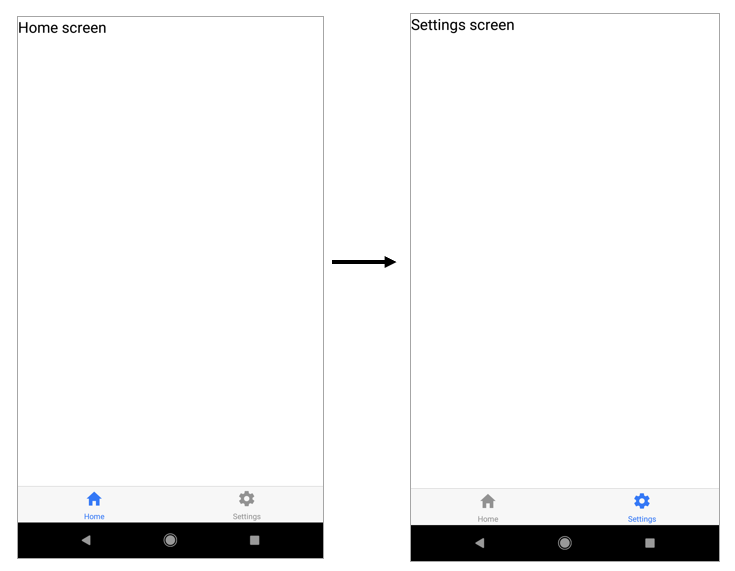
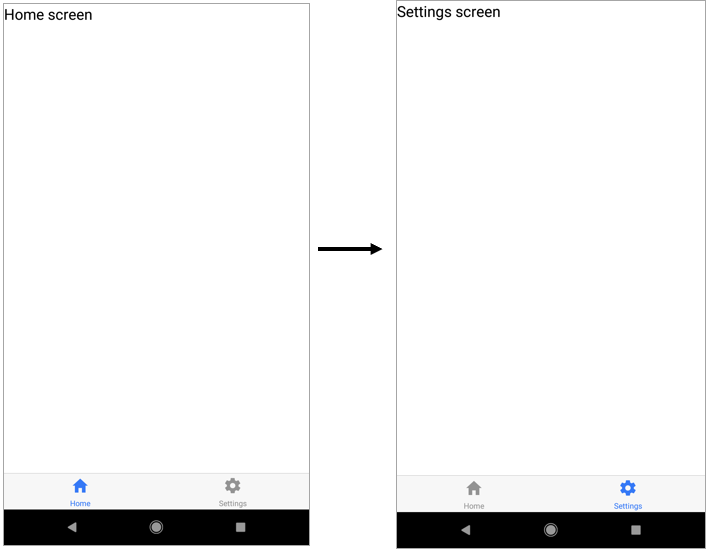
Re-writing navigation

Changed region(s): [[0.0, 0.0, 0.5601, 1.0], [0.5601, 0.0, 1.0, 1.0], [0.5601, 0.8345, 0.5912, 0.8655]]

diff --git a/docs/Navigation/reactnavigation.md b/docs/Navigation/reactnavigation.md
@@ -2,38 +2,27 @@
 title: "React Navigation"
 sidebar_position: 1
 ---
-- React Navigation provides navigation between different screens
-- The following navigators are available:
+React Navigation (https://reactnavigation.org/) is a popular routing and navigation library for React Native applications.
+
+The following navigation patterns are available:
   - Stack navigator
   - Tab navigator
-  - Drawer navigator
-- https://reactnavigation.org/ 
+  - Drawer navigator 
 
 ![](img/navigators.png)
 
 ### Installation
-- Installation of the core library and dependencies (React Navigation v6):
+Installation of the core library and dependencies (React Navigation v6):
 ```
 npm install @react-navigation/native
 npx expo install react-native-screens react-native-safe-area-context
 ```
 ### Tab Navigation
-- To implement tab navigation, you have to install also the @react-navigation/bottom-tabs
-```
-npm install @react-navigation/bottom-tabs
-```
-- Import the `NavigationContainer` and `createBottomTabNavigator` (in App.js)´
+In the next example, we implement a bottom tab navigator that provides  navigation between the home and settings screens within the application:
 
-```js
-import { NavigationContainer } from '@react-navigation/native';
-import { createBottomTabNavigator } from '@react-navigation/bottom-tabs';
-```
-- `createBottomNavigator` returns an object containing 2 properties: `Screen` and `Navigator`. Both are components
-- `Navigator` should contain `Screen` elements as its children to define the configuration for routes. 
-```js
-const Tab = createBottomTabNavigator();
-```
-- Next, we will create two simple components that we use in our navigation.
+![w:650](img/tab_navigator.png)
+
+- First, create a new React Nativa app and install React Navigator. Create two components that are used in the navigator:
 
 1.)  HomeScreen.js
 ```jsx
@@ -60,10 +49,43 @@ export default function SettingScreen() {
   );
 };
 ```
-- `NavigationContainer` is a component which manages the tree and contains the navigation state. It must wrap all navigators structure. 
-- Render this component at the root of your app
+- To implement tab navigation, you have to install the `@react-navigation/bottom-tabs` library:
+```bash
+npm install @react-navigation/bottom-tabs
+```
+- Import the `NavigationContainer` and `createBottomTabNavigator`. The `NavigatorContainer` serves as the root component for the navigation and it must be rendered at the top level of your React Native application.
 
-```jsx
+```jsx title="App.js"
+import { NavigationContainer } from '@react-navigation/native';
+import { createBottomTabNavigator } from '@react-navigation/bottom-tabs';
+
+export default function App() {
+  return (
+    <NavigationContainer>
+    </NavigationContainer>
+  );
+}
+```
+- Next, we call the `createBottomNavigator` function that allows you to create a tab-based navigation where tabs are displayed at the bottom of the screen. The function returns an object containing two components: `Screen` and `Navigator`.
+- The `Navigator` component manages the navigation state and renders the screens based on the current navigation state.
+- The `Screen` component represents an individual screen within the navigator.
+```jsx title="App.js"
+import { NavigationContainer } from '@react-navigation/native';
+import { createBottomTabNavigator } from '@react-navigation/bottom-tabs';
+
+// highlight-next-line
+const Tab = createBottomTabNavigator();
+  
+export default function App() {
+  return (
+    <NavigationContainer>
+    </NavigationContainer>
+  );
+}
+```
+- Finally, we can set-up the navigator. The `Screen` component's `name` prop defines the name that is used for screen. The name is also used to navigate to the screen. The `component` prop defines the React component to render for the screnn.
+
+```jsx title="App.js"
 import { NavigationContainer } from '@react-navigation/native';
 import { createBottomTabNavigator } from '@react-navigation/bottom-tabs';
 import HomeScreen from './HomeScreen'
@@ -74,21 +96,22 @@ const Tab = createBottomTabNavigator();
 export default function App() {
   return (
     <NavigationContainer>
+      // highlight-start
       <Tab.Navigator>
         <Tab.Screen name="Home" component={HomeScreen} />
         <Tab.Screen name="Settings" component={SettingScreen} />
       </Tab.Navigator>
+      // highlight-end
     </NavigationContainer>
   );
 }
 ```
+- Now, you should see the bottom tab naviagtor in your app and you are able to navigate between two components.
 
-![w:650](img/tab_navigator.png)
-
-- Expo provides icon library that can be used to show icons in your app.
-- See more info: https://docs.expo.dev/guides/icons/
+#### Tab icons
+- Expo provides icon library that can be used to show icons in your app (https://docs.expo.dev/guides/icons/).
 - To use icons, you have to import `Ionicons` component
-```
+```js
 import Ionicons from '@expo/vector-icons/Ionicons';
 ```
 - Then, you can render an icon. The `name` props defines what icon to show. You can explore different icons from: https://icons.expo.fyi/
